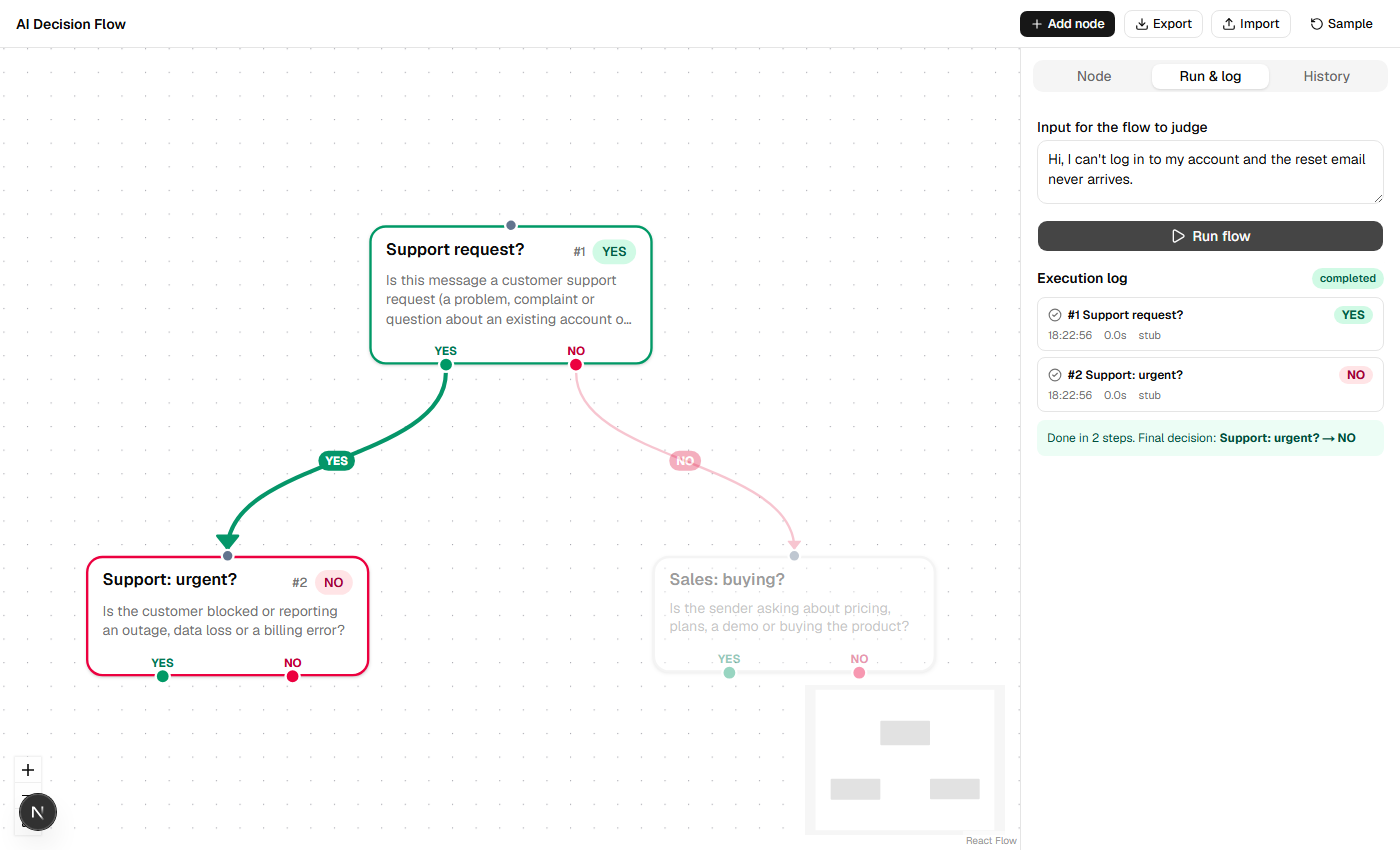
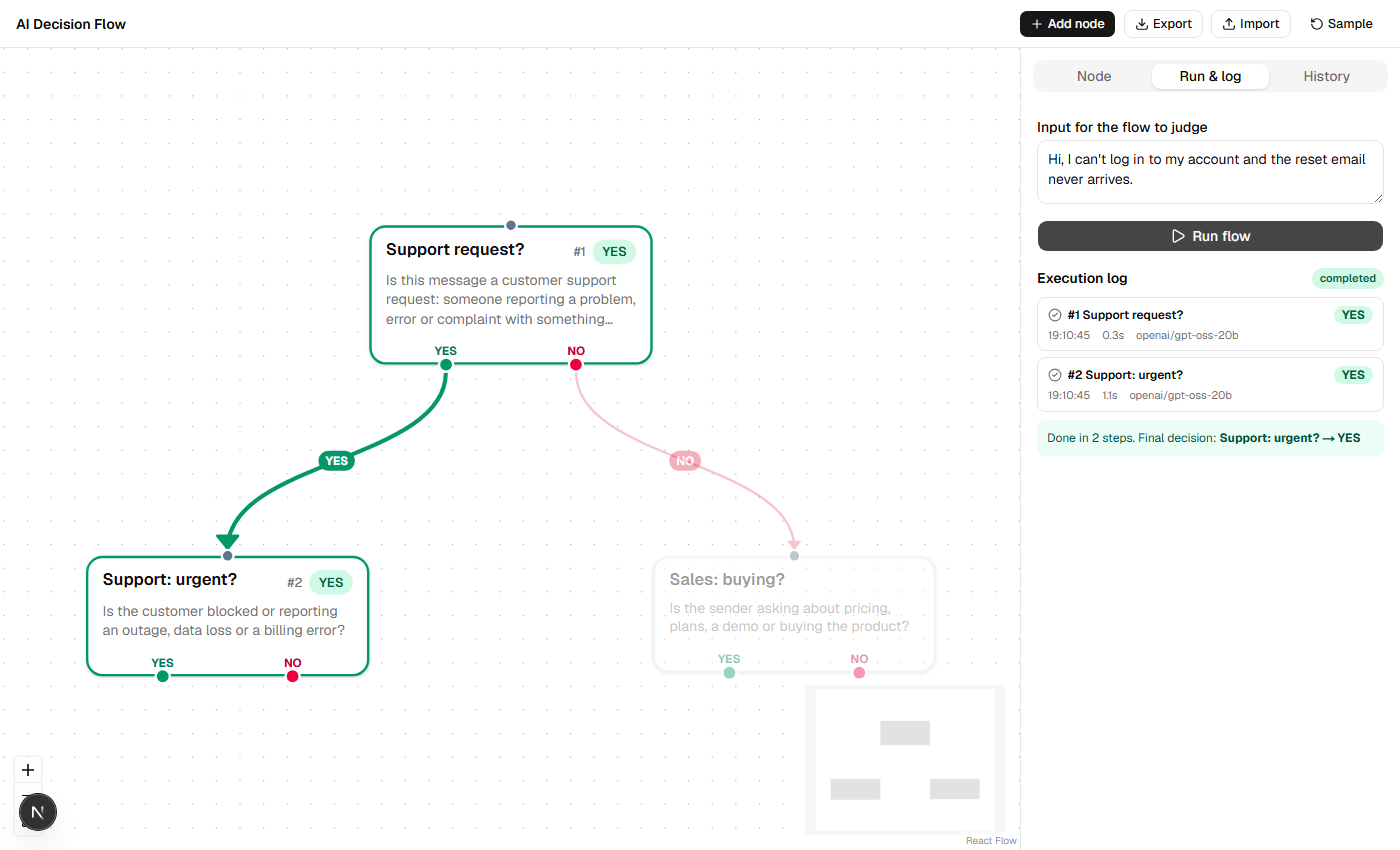
Make the real-model path work; add real screenshots
- llm: configurable LLM_MAX_TOKENS (default 512) and optional
  LLM_REASONING_EFFORT. Reasoning models (gpt-oss) spent the old 32-token
  cap thinking and returned an empty reply.
- Sample flow: tighten the first prompt so pricing/demo questions are not
  classified as support requests.
- .env.example / README: Groq model openai/gpt-oss-20b (llama-3.1-8b-instant
  is retired), note on model-name drift, real-model screenshots for the
  support and sales paths, and the Inngest step trace.

diff --git a/src/lib/llm.ts b/src/lib/llm.ts
@@ -81,10 +81,18 @@ export async function decide(prompt: string, input: string): Promise<Decision> {
     maxRetries: 0,
   });
 
+  // Reasoning models (e.g. gpt-oss) spend part of this budget thinking before
+  // they answer; too small a budget yields an empty reply. The answer itself
+  // is one word, so a generous cap costs almost nothing.
+  const maxTokens = Number(process.env.LLM_MAX_TOKENS ?? 512);
+  const effort = process.env.LLM_REASONING_EFFORT as "low" | "medium" | "high" | undefined;
+
   const completion = await client.chat.completions.create({
     model,
     temperature: 0,
-    max_completion_tokens: 32,
+    max_completion_tokens: maxTokens,
+    // Only sent when set: providers/models without reasoning reject the field.
+    ...(effort ? { reasoning_effort: effort } : {}),
     messages: [
       { role: "system", content: SYSTEM_PROMPT },
       { role: "user", content: buildUserMessage(prompt, input) },

diff --git a/src/lib/flow.ts b/src/lib/flow.ts
@@ -102,7 +102,7 @@ export function sampleFlow(): { nodes: DecisionNode[]; edges: BranchEdge[] } {
         260,
         20,
         "Support request?",
-        "Is this message a customer support request (a problem, complaint or question about an existing account or product)?",
+        "Is this message a customer support request: someone reporting a problem, error or complaint with something they already use or paid for? Questions about pricing, plans, demos or buying are NOT support requests.",
       ),
       node(
         "n_support",

diff --git a/README.md b/README.md
@@ -4,7 +4,11 @@ A visual workflow builder where every node is an AI decision that answers **YES*
 
 ![A finished run: the taken path is highlighted, the untaken branch is faded, the log is on the right](docs/screenshot-run.png)
 
-*A finished run (recorded with `LLM_STUB=1`, hence the `stub` model). The path taken is bold, the untaken branch fades, and the log shows each step.*
+*A support message, judged by `openai/gpt-oss-20b` on Groq. The path taken is bold, the untaken branch fades, and the log shows each step with the model's answer and timing.*
+
+The same flow with a sales message takes the other branch:
+
+![A sales message: the first node answers NO, so the flow follows the NO edge to the sales node](docs/screenshot-run-sales.png)
 
 ```
 "Is this a support request?"
@@ -31,10 +35,14 @@ Any OpenAI-compatible provider works; the OpenAI SDK is pointed at it with three
 
 | Provider | `LLM_BASE_URL` | `LLM_MODEL` (example) |
 | --- | --- | --- |
-| Groq (free tier) | `https://api.groq.com/openai/v1` | `llama-3.1-8b-instant` |
+| Groq (free tier) — used for the screenshots | `https://api.groq.com/openai/v1` | `openai/gpt-oss-20b` |
 | OpenAI | `https://api.openai.com/v1` | `gpt-4o-mini` |
 | OpenRouter | `https://openrouter.ai/api/v1` | `openrouter/free` |
 | Ollama (local) | `http://localhost:11434/v1` (`LLM_API_KEY=ollama`) | `llama3.2` |
+
+Groq retires models from time to time (a `404 … model does not exist` means the name is stale); `curl https://api.groq.com/openai/v1/models -H "Authorization: Bearer $LLM_API_KEY"` lists what your key can use.
+
+Reasoning models such as `gpt-oss` think before answering, and that thinking counts against the token cap. `LLM_MAX_TOKENS` (default 512) leaves room for it, and `LLM_REASONING_EFFORT=low` keeps a one-word answer fast (~0.4 s per node). Leave the effort unset for models that don't reason.
 
 No key yet? Set `LLM_STUB=1` and the whole app runs against a keyword heuristic instead of a model. It's only for exercising the plumbing (steps, branching, UI) and is never used unless you turn it on.
 
@@ -66,6 +74,10 @@ poll GET /api/runs/:id  ◀──────────────  run recor
 - **Branching.** After a node answers, the function follows the edge drawn for that answer. If the user didn't draw one, the flow ends at that node, and its answer is the final decision.
 - **Execution order** is the step index (`#1`, `#2`, …), stored in the run record and shown on the node, in the log, and in history.
 - **Progress reaches the browser** through a small run store (`src/lib/run-store.ts`): the workflow writes to it inside each step, the UI polls `GET /api/runs/:id` every 600 ms.
+
+Each node shows up as its own step in the Inngest dev dashboard (`http://localhost:8288`), with its own timing:
+
+![Inngest trace of one run: start-run, node-0-n_start, node-1-n_sales, finish-run](docs/screenshot-inngest.png)
 
 ### Edge types
 
